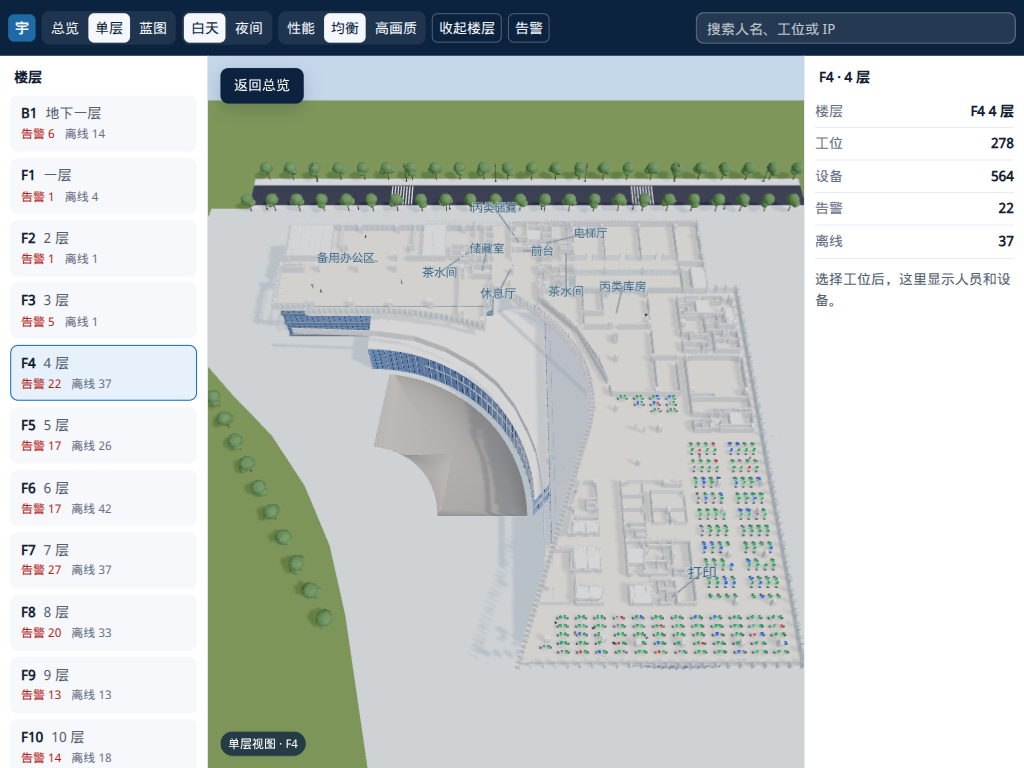
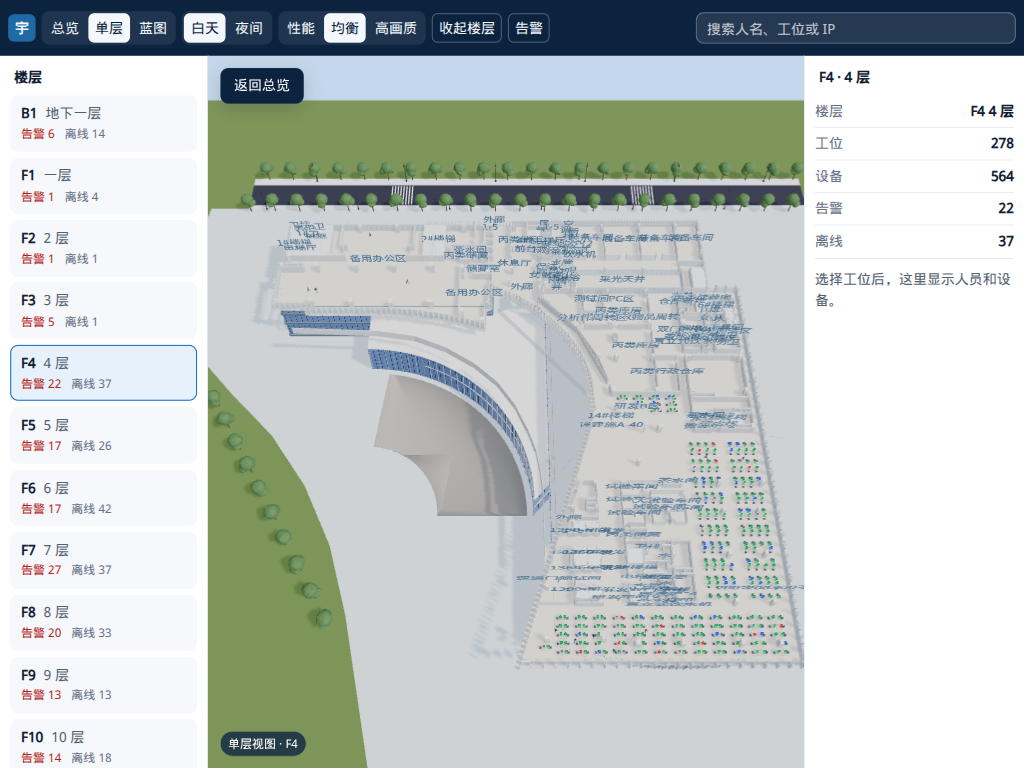
docs: record D129–D133 label batch, troika 0.53, and new woff subset.

diff --git a/docs/T013-d121.md b/docs/T013-d121.md
@@ -1,88 +1,126 @@
-# T013 / D121 单层图纸内部（a 单）
+# T013 / D121–D133 单层图纸内部（a 单）
 
 测量：发布预览 `?q=balanced|perf`，窗口 1366×768（F04 字号另测 1024/1366），headed Chrome + SwiftShader。  
-每层每档采 4 次 `gl.info.render.calls` 取最大。独立浏览器进程（`/tmp/t013-d121-isolated.json`）。  
+每层每档采 4 次 `gl.info.render.calls` 取最大。独立浏览器进程（`/tmp/d133-isolated.json`）。  
 顺序启动仍有约 +3 的 WebGL 调用泄漏，表内是实测最大值。
 
-## 22 层 × 两档调用数
+## 22 层 × 两档调用数（D129 去上限 + D131 BatchedText）
 
 硬门禁：均衡 ≤160（建议 ≤155），性能 ≤123。  
-总览均衡 110 / 性能 73。F21 均衡 144、F22 均衡 147，均 ≤155。性能档最高 F22=93 ≤123。
+总览均衡 110 / 性能 73。均衡最高 F22=129 ≤155。性能最高 F22=75 ≤123。  
+每层 `shown === after`（不再截 10 条）。合批后 1 个 fill（有描边再 +1 outline）+ 1 条 Line，不再按标签数涨调用。
 
 | 层 | 均衡 | 性能 | JSON 工位 | JSON officeDesks | InstancedMesh office | 标签 shown |
 | --- | ---: | ---: | ---: | ---: | ---: | ---: |
 | 总览 | 110 | 73 | — | — | — | — |
-| F1 | 82 | 50 | 17 | 0 | 0 | 10 |
-| F2 | 85 | 52 | 3 | 0 | 0 | 10 |
-| F3 | 88 | 54 | 3 | 0 | 0 | 10 |
-| F4 | 91 | 56 | 278 | 0 | 0 | 10 |
-| F5 | 74 | 38 | 260 | 0 | 0 | 10 |
-| F6 | 97 | 40 | 300 | 0 | 0 | 10 |
-| F7 | 100 | 42 | 315 | 0 | 0 | 10 |
-| F8 | 103 | 44 | 207 | 0 | 0 | 10 |
-| F9 | 108 | 67 | 160 | 12 | 12 | 10 |
-| F10 | 111 | 69 | 160 | 12 | 12 | 10 |
-| F11 | 114 | 71 | 160 | 12 | 12 | 10 |
-| F12 | 115 | 72 | 184 | 0 | 0 | 10 |
-| F13 | 120 | 75 | 160 | 12 | 12 | 10 |
-| F14 | 123 | 77 | 164 | 10 | 10 | 10 |
-| F15 | 126 | 59 | 160 | 12 | 12 | 10 |
-| F16 | 129 | 81 | 176 | 12 | 12 | 10 |
-| F17 | 132 | 83 | 192 | 10 | 10 | 10 |
-| F18 | 135 | 85 | 129 | 2 | 2 | 10 |
-| F19 | 138 | 87 | 180 | 2 | 2 | 10 |
-| F20 | 141 | 69 | 178 | 6 | 6 | 10 |
-| F21 | 144 | 91 | 156 | 6 | 6 | 10 |
-| F22 | 147 | 93 | 160 | 12 | 12 | 10 |
+| F1 | 64 | 32 | 17 | 0 | 0 | 238 |
+| F2 | 67 | 34 | 3 | 0 | 0 | 126 |
+| F3 | 70 | 36 | 3 | 0 | 0 | 129 |
+| F4 | 73 | 38 | 278 | 0 | 0 | 126 |
+| F5 | 76 | 40 | 260 | 0 | 0 | 135 |
+| F6 | 79 | 42 | 300 | 0 | 0 | 94 |
+| F7 | 82 | 44 | 315 | 0 | 0 | 90 |
+| F8 | 85 | 46 | 207 | 0 | 0 | 56 |
+| F9 | 90 | 49 | 160 | 12 | 12 | 32 |
+| F10 | 93 | 51 | 160 | 12 | 12 | 32 |
+| F11 | 96 | 53 | 160 | 12 | 12 | 32 |
+| F12 | 97 | 54 | 184 | 0 | 0 | 30 |
+| F13 | 102 | 57 | 160 | 12 | 12 | 32 |
+| F14 | 105 | 59 | 164 | 10 | 10 | 30 |
+| F15 | 108 | 61 | 160 | 12 | 12 | 33 |
+| F16 | 111 | 63 | 176 | 12 | 12 | 32 |
+| F17 | 114 | 65 | 192 | 10 | 10 | 31 |
+| F18 | 117 | 67 | 129 | 2 | 2 | 31 |
+| F19 | 120 | 69 | 180 | 2 | 2 | 27 |
+| F20 | 123 | 71 | 178 | 6 | 6 | 31 |
+| F21 | 126 | 73 | 156 | 6 | 6 | 36 |
+| F22 | 129 | 75 | 160 | 12 | 12 | 32 |
 
-officeDesks：22 层 `JSON 数量 = __twinInterior.jsonOfficeDesks = renderedOfficeDesks = OfficeDesks InstancedMesh.count`，逐层一致。F18=2、F21=6、F22=12 与图纸相符。
+officeDesks：22 层 `JSON 数量 = __twinInterior.jsonOfficeDesks = renderedOfficeDesks = OfficeDesks InstancedMesh.count`，逐层一致。
 
-## 过滤规则
+两档对照：F04 73 / 38（shown 126）；F21 126 / 73（shown 36）；F22 129 / 75（shown 32）。
+
+## 过滤规则（D129）
 
 `src/floors/labels.ts`：
 
-- 丢掉非房间标注：`尾气|强电|弱电|送风|排风|…|门洞|常开|常闭|尺寸|卫生|厕所` 等机电/风口/电井。
+- 只丢掉非房间标注：`尾气|强电|弱电|送风|排风|…|门洞|常开|常闭|尺寸|卫生|厕所` 等机电/风口/电井。
 - 丢掉卫生间符号与单字母：`女|男|P|N|W|p`。
 - 丢掉纯数字/门洞尺寸、`N#电梯`、仅 `（常开）`。
-- 优先级：电梯厅/前台/茶水/会议/洽谈/接待/大厅/展厅/食堂/休息/实验/主管办公/库房储藏/打印。
-- 同名上限：会议室/洽谈室/茶水间 ≤2，其余 ≤1。
-- 每层最多画 `MAX_ROOM_LABELS = 10`（给 officeDesks 和余量留调用）。
-- 引线终点按外轮廓跨度 hex stagger + 斥力（span>70 → minSep 16，否则 7.2）。
+- **不再**按同名截断，**不再** `MAX_ROOM_LABELS = 10`。
+- 优先级只影响排序，不影响条数。
+- 引线终点按外轮廓跨度 hex stagger + 斥力，位移钳在锚点附近。
 
 ## 每层过滤前后标签数
 
-`before` = JSON `rooms.length`；`after` = `isRoomName` 之后；`shown` = 实际上屏（≤10）。
+`before` = JSON `rooms.length`；`after` = `isRoomName` 之后；`shown` = 实际上屏（`shown === after`）。
 
 | 层 | 过滤前 | 过滤后 | 上屏 |
 | --- | ---: | ---: | ---: |
-| F1 | 348 | 238 | 10 |
-| F2 | 246 | 126 | 10 |
-| F3 | 258 | 129 | 10 |
-| F4 | 230 | 126 | 10 |
-| F5 | 226 | 135 | 10 |
-| F6 | 178 | 94 | 10 |
-| F7 | 171 | 90 | 10 |
-| F8 | 103 | 56 | 10 |
-| F9 | 55 | 32 | 10 |
-| F10 | 55 | 32 | 10 |
-| F11 | 55 | 32 | 10 |
-| F12 | 54 | 30 | 10 |
-| F13 | 55 | 32 | 10 |
-| F14 | 53 | 30 | 10 |
-| F15 | 56 | 33 | 10 |
-| F16 | 55 | 32 | 10 |
-| F17 | 54 | 31 | 10 |
-| F18 | 55 | 31 | 10 |
-| F19 | 50 | 27 | 10 |
-| F20 | 54 | 31 | 10 |
-| F21 | 59 | 36 | 10 |
-| F22 | 55 | 32 | 10 |
+| F1 | 348 | 238 | 238 |
+| F2 | 246 | 126 | 126 |
+| F3 | 258 | 129 | 129 |
+| F4 | 230 | 126 | 126 |
+| F5 | 226 | 135 | 135 |
+| F6 | 178 | 94 | 94 |
+| F7 | 171 | 90 | 90 |
+| F8 | 103 | 56 | 56 |
+| F9 | 55 | 32 | 32 |
+| F10 | 55 | 32 | 32 |
+| F11 | 55 | 32 | 32 |
+| F12 | 54 | 30 | 30 |
+| F13 | 55 | 32 | 32 |
+| F14 | 53 | 30 | 30 |
+| F15 | 56 | 33 | 33 |
+| F16 | 55 | 32 | 32 |
+| F17 | 54 | 31 | 31 |
+| F18 | 55 | 31 | 31 |
+| F19 | 50 | 27 | 27 |
+| F20 | 54 | 31 | 31 |
+| F21 | 59 | 36 | 36 |
+| F22 | 55 | 32 | 32 |
+
+## BatchedText（D130 / D131 / D132）
+
+- 直接用 `troika-three-text` 的 `Text` + `BatchedText`（不用 drei 的 BatchedText）。
+- `troika-three-text` / `troika-three-utils` / `troika-worker-utils` 精确钉 **0.53.0**（`dependencies` + `overrides`）。lockfile 已解析副本全是 0.53.0；drei 声明仍是 `^0.52.4`，被 overrides 抬上来。
+- 每层一个 `BatchedText`；成员 `sync` 后再 `batch.sync`；`visible=false` 直到 pack 完。
+- 挂在 `FloorShell-${id}`（B1→B1）上，Y 取 `FloorInterior.position.y`，爆炸跟层走。
+- 不做 Billboard / 不做多色。字面朝 +Z，双面绘制。
+- `useWorker: false` + `disableTroikaCdnFallback()` 在创建任何 Text / BatchedText 之前调用（`textRuntime` / `BatchedRoomLabels` 模块顶）。
+- `vite.config.ts` 的 `stubTroikaUnicodeResolver` 未改。升 0.53.0 后 rebuild：dist 里 `jsdelivr` **0**、`lojjic` **0**。
+- 「嗆」编进 `characters`（字库没有这一字），实测外链 **0**，只请求 `/fonts/NotoSansSC-Regular-subset.woff`。
+
+### F04 pack ms
+
+| 条件 | pack ms | calls |
+| --- | ---: | ---: |
+| 正常 | 1382 | 71 |
+| CPU×8 | 4056 | 73 |
+
+隔离复测 F04 均衡 pack 2397 ms（独立进程，含 preload）。
+
+## 字体（D133）
+
+路径不变：`public/fonts/NotoSansSC-Regular-subset.woff`。
+
+| | 旧 D037 | 新 D133 |
+| --- | --- | --- |
[1 lines of base64/hex data omitted]
+| 大小 | 625,668 B | **628,356 B** |
+| cmap | 3,609 | **3,636** |
+| GSUB | `ccmp`, `liga`（无 `halt` / `palt`） | `ccmp`, `liga`（无 `halt` / `palt`） |
+| GPOS | `kern`（无 `halt` / `palt`） | `kern`（无 `halt` / `palt`） |
+
+生成环境：fontTools 4.66.0，zlib **1.3.1**。对照 otf（不提交）`7363d4fa…1970` / 745,004 B 也对上。  
+字表：一级字 3500 + ASCII + 中文标点 + 盥瑜伽龛 + U+33A1 ㎡ + ∅≥．。只出 woff。  
+缺字补齐后无豆腐块：F01 装饰**龛**、F03 **㎡**、F05 **瑜/伽**、F04/F05 **盥**。标点宽度与换前一致（`F04-punct-old.png` / `F04-punct-new.png`）。
 
 ## React key
 
-- 房间 `id`：JSON `room.id`，缺省则 `room-${n}`（`parseRooms`）。
-- 标签 id：`` `${plan.floorId}:${room.id}` ``（`roomLabelsFromPlan`）。
-- React：`<Billboard key={label.id}>`，不用文案当 key。22 层 id 均唯一。
+- 房间 `id`：JSON `room.id`，缺省则 `room-${n}`。
+- 标签 id：`` `${plan.floorId}:${room.id}` ``，撞车则 `:${index}`。
+- 不再用 Billboard key。22 层 id 均唯一。
 
 ## F04 屏幕像素高度
 
@@ -90,10 +128,8 @@ officeDesks：22 层 `JSON 数量 = __twinInterior.jsonOfficeDesks = renderedOff
 
 | 视口 | 世界字号 | 屏幕 px |
 | --- | ---: | ---: |
-| 1024×768 | 3.33 | **13.0** |
-| 1366×768 | 2.57 | **13.0** |
-
-原先约 2.6–3.6 px，现可读。F04 可见「丙类储藏 / 茶水间 / 前台 / 电梯厅」。F18/F21 有「洽谈室」。洽/丙始终编进 troika `characters`。
+| 1024×768 | 3.24 | **13.0** |
+| 1366×768 | 2.47 | **13.0** |
 
 ## 截图
 
@@ -103,16 +139,42 @@ officeDesks：22 层 `JSON 数量 = __twinInterior.jsonOfficeDesks = renderedOff
 | F18 | `docs/T013-evidence/F18-1024.png` | `docs/T013-evidence/F18-1366.png` | `docs/T013-evidence/F18-1920.png` |
 | F21 | `docs/T013-evidence/F21-1024.png` | `docs/T013-evidence/F21-1366.png` | `docs/T013-evidence/F21-1920.png` |
 
+缺字近景：`F01-niche.png`、`F03-sqm.png`、`F05-yoga.png`、`F05-wash.png`、`F04-wash.png`。  
+标点对照：`F04-punct-old.png` / `F04-punct-new.png`。
+
+## 首屏（D125：Python `gzip.compress(9)`）
+
+不含 `.hdr`、favicon、balancedFx、首帧后三个预取（`floorDecor` / `textRuntime` / `BlueprintView`）。硬门禁 **≤ 436,361 B**。  
+字体不在首屏包里（总览不请求 woff；troika 在懒包 `textRuntime`）。
+
+不含预取（验收口径，与上轮同一 8 个文件）**426,459 B** ≤ **436,361 B**（余量 9,902）：
+
+| 文件 | gzip.compress(9) | 相对首帧 |
+| --- | ---: | --- |
+| `/index.html` | 341 | 之前 |
+| `/assets/index-*.js` | 393,791 | 之前 |
+| `/assets/index-CRsjujUE.css` | 3,320 | 之前 |
+| `/assets/badge-digits-bold-C_MyspKJ.png` | 4,237 | 之前 |
+| `/models/roof-sign.glb` | 5,061 | 之前 |
+| `/models/street-lamp.glb` | 2,666 | 之前 |
+| `/models/street-tree-lo.glb` | 3,466 | 之前 |
+| `/models/street-tree-hi.glb` | 13,577 | 之前 |
+| **合计** | **426,459** | |
+
+含预取（只作对照）**486,661 B**：上表 + `floorDecor` 9,218 + `textRuntime` 45,409 + `BlueprintView` 3,042。  
+`textRuntime` 因 troika 0.53.0 从约 41.6 KB 涨到 45.4 KB，仍是懒包。
+
 ## 偏差
 
 - **D114 本轮仍作偏差，未改。**
 - 顺序启动 WebGL 调用约 +3/页（独立浏览器仍见）。表内已是每层 4 次最大。
 - 同名标签斥力后仍可能有少量重叠。
+- 不做 Billboard：远机位字是立着的，比旧的始终朝向镜头略扁。
 
 ## 自测
 
 - tsc `--noEmit` 通过。
-- vitest **33 files / 117 tests** 通过（含 `overviewReady` 3、`parsePlan` 6）。
-- 控制台 error 0、warning 0；外部请求 0。
-- 字体只有 `/fonts/NotoSansSC-Regular-subset.woff`。
-- 人沿 `walkPaths`；工位 JSON=data=InstancedMesh；首进单层无空帧（hover/enter 预取 JSON，不走 Stage 懒预取）。
+- vitest **33 files / 117 tests** 通过。
+- 控制台 error 0、warning 0；外部请求 0；jsdelivr / lojjic 命中 0。
+- 字体只有 `/fonts/NotoSansSC-Regular-subset.woff`，无 otf。
+- 人沿 `walkPaths`；工位 JSON=data=InstancedMesh；首进单层无空帧。

diff --git a/README.md b/README.md
@@ -67,4 +67,4 @@ npm test
 | --- | --- | --- |
 | `public/hdr/kloofendal_48d_partly_cloudy_puresky_1k.hdr` | [Kloofendal 48d Partly Cloudy (Pure Sky)](https://polyhaven.com/a/kloofendal_48d_partly_cloudy_puresky)，Poly Haven 1k 等距柱状 HDR（1024×512）。作者 Greg Zaal（原片）、Jarod Guest（天空编辑）。原始 1,435,119 字节，gzip 954,159 字节。性能档和均衡档共用这一张，只做反射 | [CC0 1.0](https://creativecommons.org/publicdomain/zero/1.0/) |
 
-单层视图的房间标签使用本地字体 `public/fonts/NotoSansSC-Regular-subset.woff`（D037 的 Noto Sans SC 2.004 子集，woff，625,668 B，OFL）。许可全文在 `public/fonts/NotoSansCJK-copyright.txt`。总览不请求该字体。走廊人物在 `public/models/people/`，只在均衡档和高画质的单层视图里加载，性能档不请求这些 GLB。模型是 Poly Pizza 上的 CC0（Quaternius）：[Man in Suit](https://poly.pizza/m/mQnGoME1ez)、[Woman Casual](https://poly.pizza/m/jpKRgGDxhk)、[Animated Human](https://poly.pizza/m/c3Ibh9I3udk)。仓库私有，这些 GLB 不单独对外分发。
+单层视图的房间标签使用本地字体 `public/fonts/NotoSansSC-Regular-subset.woff`（D133 的 Noto Sans SC 2.004 子集，woff，628,356 B，OFL）。许可全文在 `public/fonts/NotoSansCJK-copyright.txt`。总览不请求该字体。走廊人物在 `public/models/people/`，只在均衡档和高画质的单层视图里加载，性能档不请求这些 GLB。模型是 Poly Pizza 上的 CC0（Quaternius）：[Man in Suit](https://poly.pizza/m/mQnGoME1ez)、[Woman Casual](https://poly.pizza/m/jpKRgGDxhk)、[Animated Human](https://poly.pizza/m/c3Ibh9I3udk)。仓库私有，这些 GLB 不单独对外分发。

diff --git a/assets/tools/font-subset/README.md b/assets/tools/font-subset/README.md
@@ -9,4 +9,4 @@ python3 assets/tools/font-subset/subset.py \
   --output public/fonts/NotoSansSC-Regular-subset.woff
 ```
 
-交付用字体以 D037 打包的 `NotoSansSC-Regular-subset.woff` 为准（625,668 B），不要用本脚本覆盖那份文件。字符表仅作备查：ASCII + 中文标点 + 页面文案 + 常用字；不包含「嗆」。
[1 lines of base64/hex data omitted]
